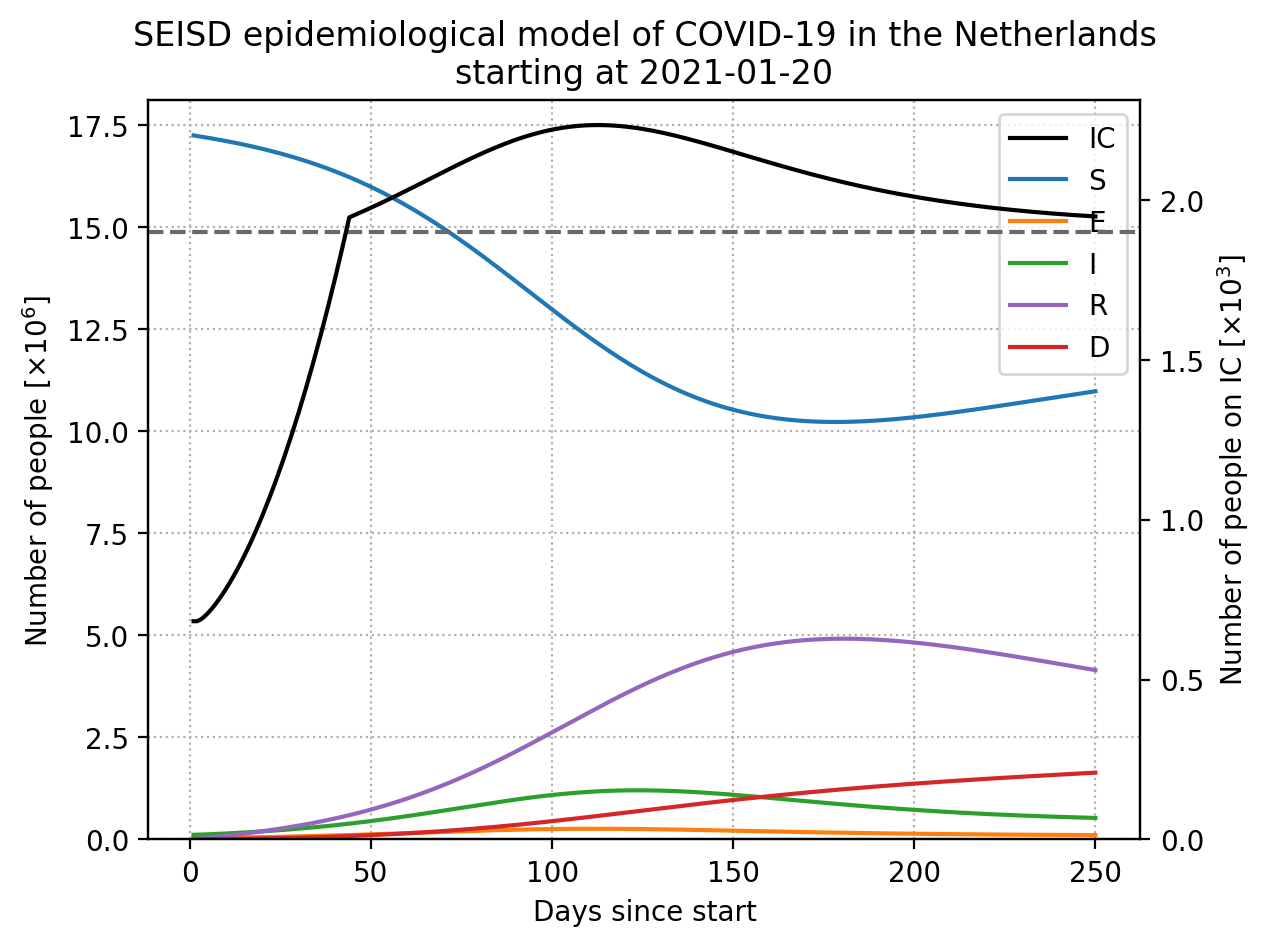
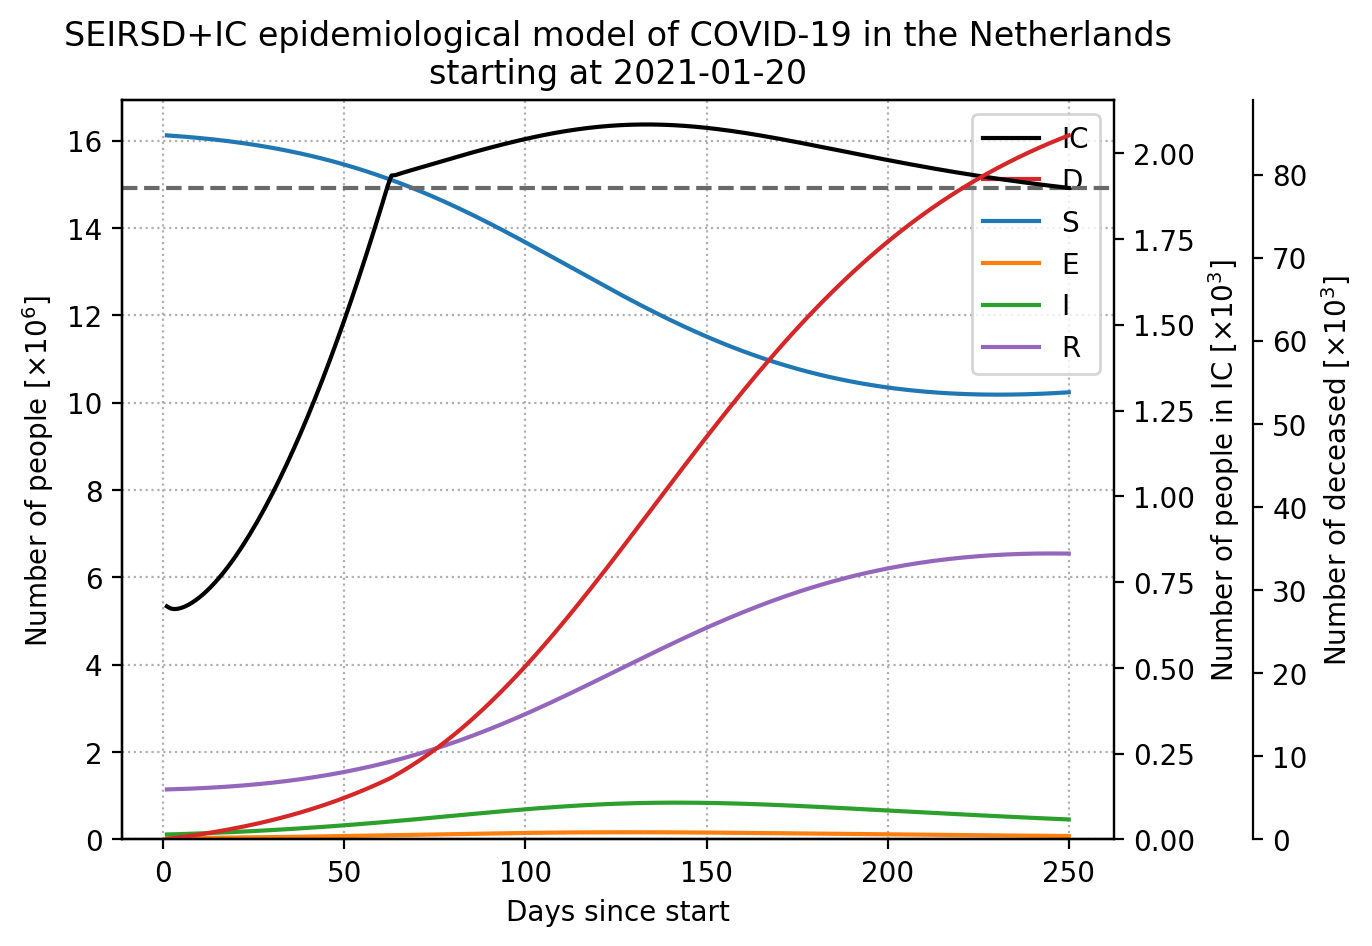
Finished SEIRSD+IC modelling for now

diff --git a/model_coronavirus_supression.py b/model_coronavirus_supression.py
@@ -2187,7 +2187,7 @@ def epidemiological_modelling(startdate = '2021-01-20'):
 	#spread across age groups using mortality rates, correcting for the
 	#population pyramid
 	mu = mu_0 * df_mortality_hosp_agegroup.Deceased_fraction.values/np.mean(df_mortality_hosp_agegroup.Deceased_fraction) / (N/np.mean(N))
-	Rt = 2
+	Rt = 1.5
 	beta = beta_from_Rt(Rt, gamma, mu)
 
 	param = {

diff --git a/README.md b/README.md
@@ -1,7 +1,8 @@
 ## Modelling the outcome of Dutch government coronavirus response
 
 ### TODO:
-- Split the model up into different age groups with different mu.
+- Split the model up into different age groups with different mu
+	- Plot deaths per age group
 
 ### Data sources
 
